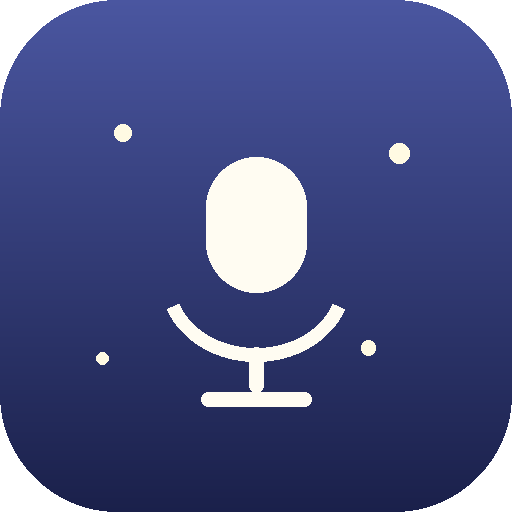
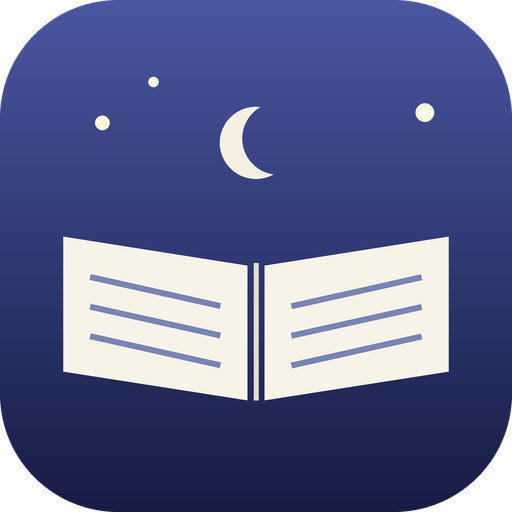
아이콘 교체: 마이크 → 펼친 책 + 초승달·별 (밤하늘 유지) (v17)
- gen_icons.py: 마이크 대신 펼친 책(크림색 페이지+글줄) + 초승달 그리기
- 4배 슈퍼샘플링(LANCZOS)으로 선을 매끄럽게
- 네이비 밤하늘 그라데이션·별 장식은 유지
- icon-192/512, maskable-512, apple-touch-icon 재생성
- 캐시/앱 버전 v17

Claude-Session: https://claude.ai/code/session_01DnthvJbLa9SW2GMm7NNS3V

diff --git a/sw.js b/sw.js
@@ -3,7 +3,7 @@
  * 오프라인일 때만 캐시로 보여준다. → 업데이트가 폰에 바로 반영된다.
  * 파일을 크게 바꾸면 아래 CACHE 버전 숫자를 올린다.
  */
-const CACHE = "voicebook-v16";
+const CACHE = "voicebook-v17";
 const CORE = [
   "./",
   "./index.html",

diff --git a/app.js b/app.js
@@ -10,7 +10,7 @@
 
   const VOICE_LABEL = { mom: "엄마", dad: "아빠" };
   const MAX_SECONDS = 300;
-  const APP_VERSION = "v16";
+  const APP_VERSION = "v17";
 
   const state = {
     scriptId: null, voice: "mom", mode: "idle",

diff --git a/icons/gen_icons.py b/icons/gen_icons.py
@@ -1,73 +1,107 @@
-"""우리 목소리 책 - PWA 아이콘 생성 스크립트.
-따뜻한 색 배경 + 흰색 마이크. 필요할 때 다시 실행하면 아이콘을 새로 만든다.
+"""별밤책 - PWA 아이콘 생성 스크립트.
+밤하늘 네이비 배경 + 별 + 초승달 + 펼친 책(크림색).
+'녹음/마이크'가 아니라 '책' 느낌을 살렸다.
+필요할 때 다시 실행하면 아이콘을 새로 만든다.
 사용: python3 gen_icons.py
 """
 from PIL import Image, ImageDraw
+
+SS = 4  # 슈퍼샘플링 배율 (선을 매끄럽게)
 
 
 def lerp(a, b, t):
     return tuple(round(a[i] + (b[i] - a[i]) * t) for i in range(3))
 
 
+def paste_color(img, mask, color):
+    """알파 마스크(mask, 'L') 자리에 단색(color)을 그라데이션 위로 올린다."""
+    layer = Image.new("RGBA", img.size, color + (255,))
+    img.paste(layer, (0, 0), mask)
+
+
 def draw_icon(size, maskable=False):
-    S = size
+    S = size * SS
     img = Image.new("RGBA", (S, S), (0, 0, 0, 0))
     d = ImageDraw.Draw(img)
 
     top = (74, 86, 160)     # 밤하늘 인디고
-    bot = (26, 32, 74)      # 깊은 남색
-    # 세로 그라데이션 배경
+    bot = (22, 28, 68)      # 깊은 남색
     for y in range(S):
         d.line([(0, y), (S, y)], fill=lerp(top, bot, y / S))
 
-    if not maskable:
-        # 둥근 모서리로 다듬기 (any 용도)
-        r = int(S * 0.23)
-        mask = Image.new("L", (S, S), 0)
-        ImageDraw.Draw(mask).rounded_rectangle([0, 0, S - 1, S - 1], radius=r, fill=255)
-        img.putalpha(mask)
-
-    # 마스커블은 안전영역을 위해 마이크를 좀 더 작게
-    scale = 0.74 if maskable else 0.88
+    # 크림 책보다 콘텐츠를 살짝 작게(마스커블은 안전영역 확보)
+    scale = 0.80 if maskable else 0.94
     cx = S / 2
-    w = S * 0.22 * scale          # 마이크 몸통 폭 (세로로 긴 캡슐)
-    cap_top = S * (0.50 - 0.22 * scale)
-    cap_bot = S * (0.50 + 0.08 * scale)
-    white = (255, 252, 242, 255)  # 크림색 (밤하늘에 은은하게)
 
-    # 작은 별 몇 개 (밤하늘 장식)
+    # ---- 작은 별들 (밤하늘 장식) ----
     star = (255, 250, 225, 235)
-    for (sx, sy, sr) in [(0.24, 0.26, 0.016), (0.78, 0.30, 0.020),
-                         (0.72, 0.68, 0.014), (0.20, 0.70, 0.012)]:
+    for (sx, sy, sr) in [(0.20, 0.24, 0.014), (0.83, 0.22, 0.018),
+                         (0.72, 0.63, 0.013), (0.16, 0.66, 0.012),
+                         (0.30, 0.16, 0.010)]:
         r = S * sr
         d.ellipse([S * sx - r, S * sy - r, S * sx + r, S * sy + r], fill=star)
 
-    # 마이크 몸통 (둥근 캡슐)
-    d.rounded_rectangle(
-        [cx - w / 2, cap_top, cx + w / 2, cap_bot],
-        radius=w / 2, fill=white,
-    )
-    # 홀더 아치 (U자)
-    arc_w = w * 1.9
-    arc_top = cap_bot - w * 0.9
-    arc_bot = cap_bot + w * 0.7
-    lw = max(3, int(S * 0.028))
-    d.arc([cx - arc_w / 2, arc_top, cx + arc_w / 2, arc_bot],
-          start=20, end=160, fill=white, width=lw)
-    # 스탠드 기둥
-    stem_top = arc_bot - lw
-    stem_bot = stem_top + S * 0.10 * scale
-    d.rounded_rectangle([cx - lw / 2, stem_top, cx + lw / 2, stem_bot],
-                        radius=lw / 2, fill=white)
-    # 받침
-    base_w = w * 1.1
-    d.rounded_rectangle([cx - base_w / 2, stem_bot, cx + base_w / 2, stem_bot + lw],
-                        radius=lw / 2, fill=white)
-    return img
+    cream = (247, 243, 232)   # 책 페이지 크림색
+    ink = (120, 132, 178)     # 페이지 위 글줄(은은한 남보라)
+
+    # ---- 초승달 (책 위, 은은하게) ----
+    moon_mask = Image.new("L", (S, S), 0)
+    md = ImageDraw.Draw(moon_mask)
+    mx, my, mr = cx, S * (0.50 - 0.235 * scale), S * 0.075 * scale
+    md.ellipse([mx - mr, my - mr, mx + mr, my + mr], fill=255)
+    off = mr * 0.62
+    md.ellipse([mx - mr + off, my - mr - off * 0.2,
+                mx + mr + off, my + mr - off * 0.2], fill=0)  # 오른쪽을 파서 초승달
+    paste_color(img, moon_mask, (245, 240, 224))
+
+    # ---- 펼친 책 ----
+    # 중심에서 살짝 벌어진 두 페이지. 위/아래가 스파인(중앙)으로 부드럽게 처짐.
+    w = S * 0.40 * scale          # 한 페이지 가로
+    gap = S * 0.018 * scale       # 중앙 스파인 틈
+    y_ct = S * (0.50 + 0.02 * scale)   # 중앙 위 (살짝 아래 → 계곡)
+    y_ot = S * (0.50 - 0.04 * scale)   # 바깥 위
+    y_ob = S * (0.50 + 0.24 * scale)   # 바깥 아래
+    y_cb = S * (0.50 + 0.30 * scale)   # 중앙 아래 (더 처짐 → 책이 벌어진 느낌)
+
+    left = [
+        (cx - gap, y_ct),
+        (cx - w, y_ot),
+        (cx - w, y_ob),
+        (cx - gap, y_cb),
+    ]
+    right = [(S - x, y) for (x, y) in left]  # 좌우 대칭
+
+    d.polygon(left, fill=cream)
+    d.polygon(right, fill=cream)
+
+    # 페이지 위 글줄 3개씩 (책 느낌)
+    lw = max(2, int(S * 0.012))
+    for i, fy in enumerate((0.30, 0.52, 0.74)):
+        # 각 페이지 안쪽에서 바깥쪽으로, 페이지 기울기에 맞춰 살짝 기울임
+        ty = y_ct + (y_cb - y_ct) * 0.18 + (y_ob - y_ot) * 0.0
+        yy_in = y_ct + (y_cb - y_ct) * fy
+        yy_out = y_ot + (y_ob - y_ot) * fy
+        inset = w * 0.14
+        # 왼쪽 페이지 글줄
+        d.line([(cx - gap - inset, yy_in), (cx - w + inset, yy_out)], fill=ink, width=lw)
+        # 오른쪽 페이지 글줄
+        d.line([(cx + gap + inset, yy_in), (cx + w - inset, yy_out)], fill=ink, width=lw)
+
+    # 중앙 스파인(책등) 살짝 강조
+    d.line([(cx, y_ct - S * 0.005), (cx, y_cb)], fill=(228, 222, 205), width=max(2, int(S * 0.01)))
+
+    # ---- 둥근 모서리(any 용도) / 마스커블은 꽉 채움 ----
+    if not maskable:
+        r = int(S * 0.23)
+        corner = Image.new("L", (S, S), 0)
+        ImageDraw.Draw(corner).rounded_rectangle([0, 0, S - 1, S - 1], radius=r, fill=255)
+        img.putalpha(corner)
+
+    return img.resize((size, size), Image.LANCZOS)
 
 
 def draw_apple(size):
-    # iOS는 투명/둥근모서리를 시스템이 처리 → 꽉 찬 사각 배경
+    # iOS는 둥근모서리를 시스템이 처리 → 꽉 찬 사각(불투명) 배경
     return draw_icon(size, maskable=True).convert("RGB")
 
 
